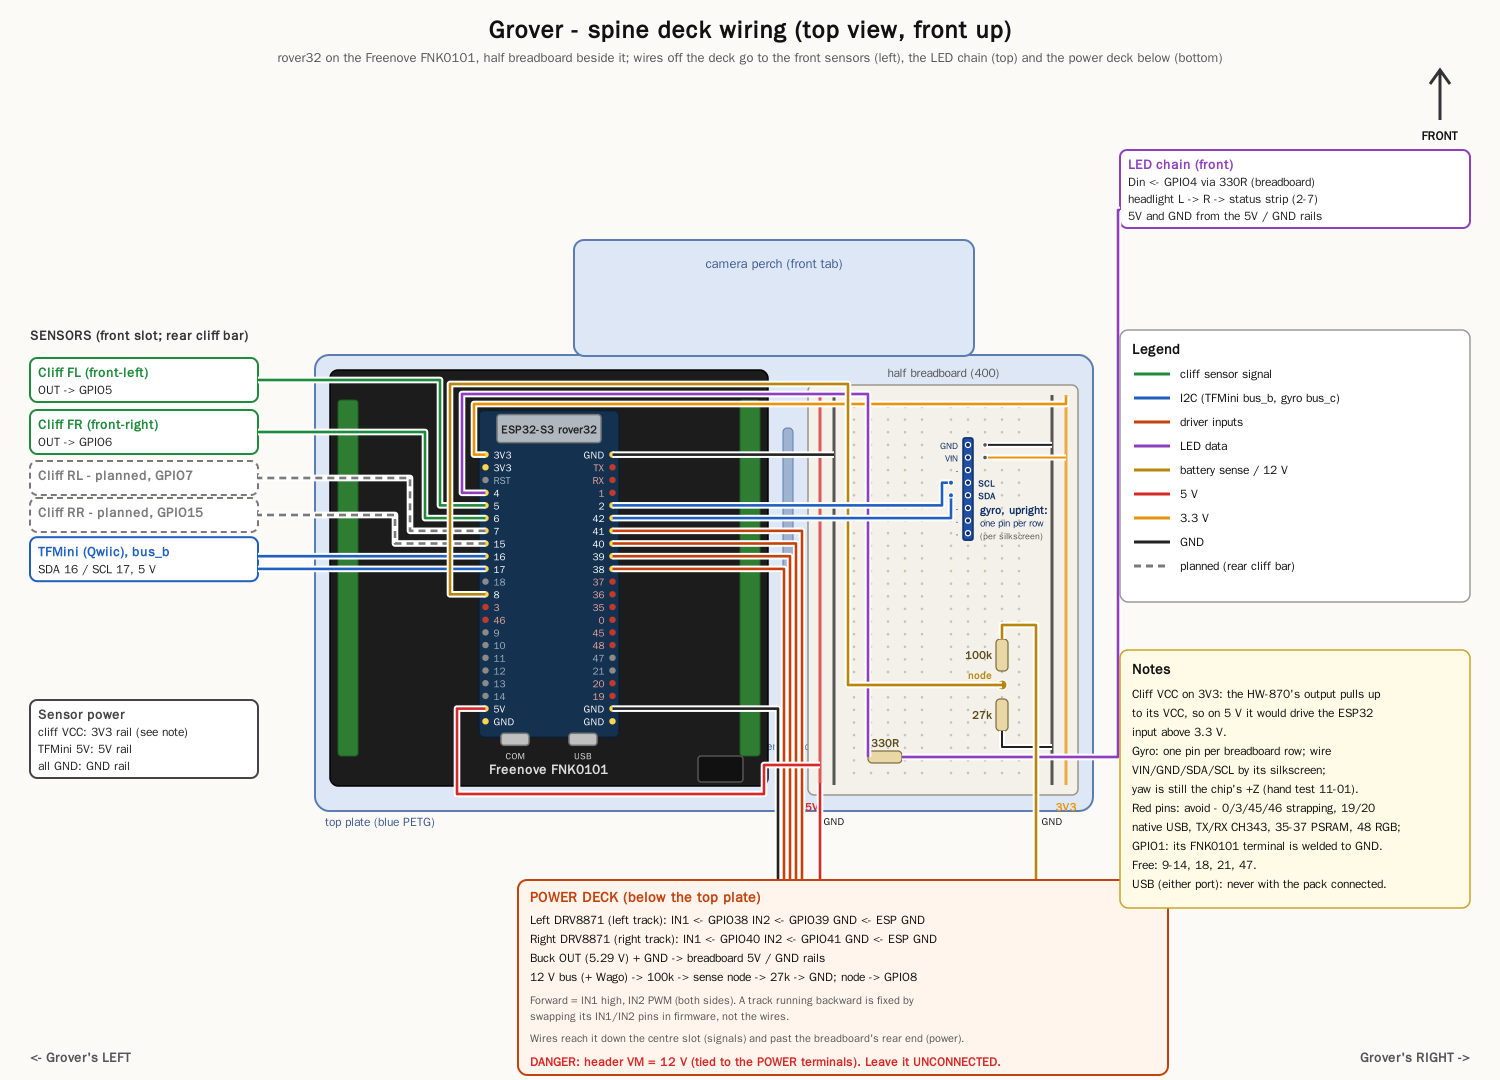
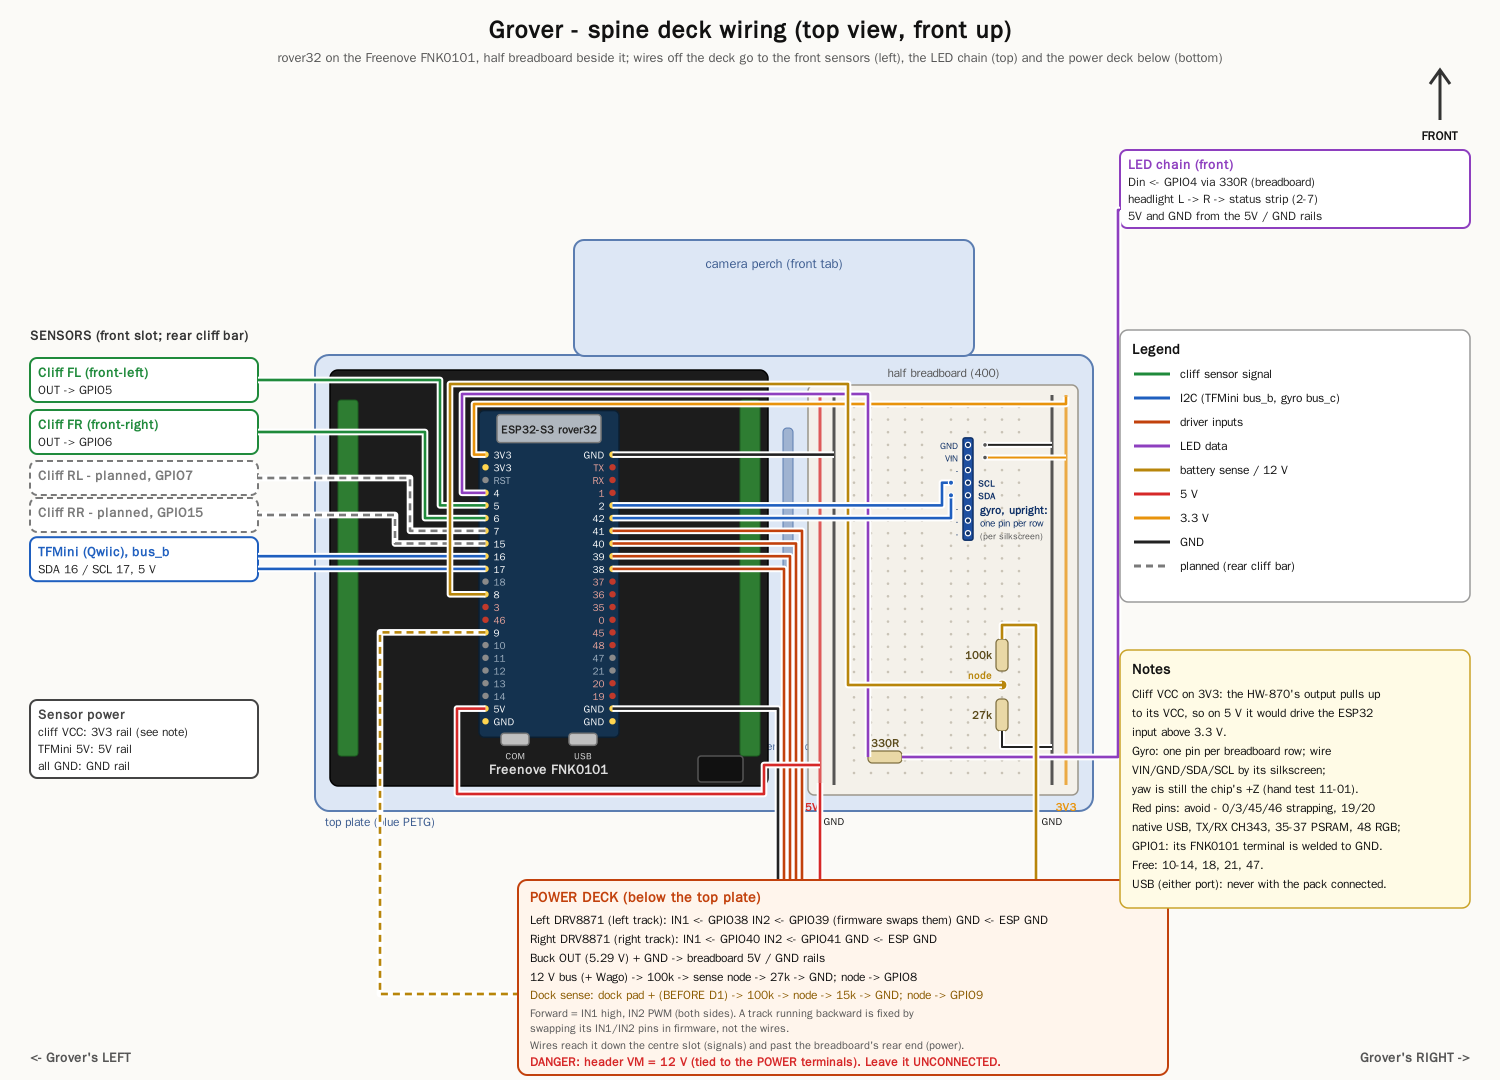
dock sense (100k/15k -> GPIO9): docs, diagram, BOM, firmware copy, JOURNAL

diff --git a/hardware/carrier/spine_deck_wiring.py b/hardware/carrier/spine_deck_wiring.py
@@ -92,7 +92,7 @@ right_pins = ["GND", "TX", "RX", "1", "2", "42", "41", "40", "39", "38", "37", "
 avoid = {"1", "3", "46", "0", "45", "48", "TX", "RX", "20", "19", "35", "36", "37"}
 lx, rx_ = dcx - 12.7 * S, dcx + 12.7 * S
 P = {}
-used = {"3V3", "4", "5", "6", "7", "15", "16", "17", "8", "5V", "2", "42", "41", "40", "39", "38"}
+used = {"3V3", "4", "5", "6", "7", "15", "16", "17", "8", "9", "5V", "2", "42", "41", "40", "39", "38"}
 def pin(x, y, n, side, i):
     on = n in used or n == "GND"
     fill = "#ffd54f" if on else "#c0392b" if n in avoid else "#8a8a8a"
@@ -217,16 +217,19 @@ line([(bx0 + 228, PDy), (bx0 + 228, dvy - 60), (rx1, dvy - 60), (rx1, dvy - 46)]
 
 # ---- power deck box (below) ------------------------------------------------
 pdx, pdw = gx0 - 250, 650
+# dock sense GPIO9 (left header) -> down the left side -> power deck divider
+line([P["L9"], (380, P["L9"][1]), (380, PDy + 114), (gx0 - 250, PDy + 114)], C["bat"], dash=True)
 rect(pdx, PDy, pdw, 195, "#fff5ec", C["drv"], rx=9, sw=2)
 text(pdx + 12, PDy + 22, "POWER DECK (below the top plate)", 14, weight="bold", col=C["drv"])
-text(pdx + 12, PDy + 44, "Left DRV8871 (left track):  IN1 <- GPIO38   IN2 <- GPIO39   GND <- ESP GND", 12)
+text(pdx + 12, PDy + 44, "Left DRV8871 (left track):  IN1 <- GPIO38   IN2 <- GPIO39 (firmware swaps them)   GND <- ESP GND", 12)
 text(pdx + 12, PDy + 63, "Right DRV8871 (right track): IN1 <- GPIO40   IN2 <- GPIO41   GND <- ESP GND", 12)
 text(pdx + 12, PDy + 186, "DANGER: header VM = 12 V (tied to the POWER terminals). Leave it UNCONNECTED.", 12, weight="bold", col="#d62828")
 text(pdx + 12, PDy + 82, "Buck OUT (5.29 V) + GND -> breadboard 5V / GND rails", 12)
 text(pdx + 12, PDy + 101, "12 V bus (+ Wago) -> 100k -> sense node -> 27k -> GND;  node -> GPIO8", 12)
-text(pdx + 12, PDy + 124, "Forward = IN1 high, IN2 PWM (both sides). A track running backward is fixed by", 11, col="#555")
-text(pdx + 12, PDy + 140, "swapping its IN1/IN2 pins in firmware, not the wires.", 11, col="#555")
-text(pdx + 12, PDy + 162, "Wires reach it down the centre slot (signals) and past the breadboard's rear end (power).", 11, col="#555")
+text(pdx + 12, PDy + 119, "Dock sense: dock pad + (BEFORE D1) -> 100k -> node -> 15k -> GND;  node -> GPIO9", 12, col="#8a5a00")
+text(pdx + 12, PDy + 137, "Forward = IN1 high, IN2 PWM (both sides). A track running backward is fixed by", 11, col="#555")
+text(pdx + 12, PDy + 152, "swapping its IN1/IN2 pins in firmware, not the wires.", 11, col="#555")
+text(pdx + 12, PDy + 169, "Wires reach it down the centre slot (signals) and past the breadboard's rear end (power).", 11, col="#555")
 
 # ---- legend / notes ----------------------------------------------------------
 lgx, lgy = 1120, 330
@@ -253,7 +256,7 @@ for i, s in enumerate([
         "Red pins: avoid - 0/3/45/46 strapping, 19/20",
         "native USB, TX/RX CH343, 35-37 PSRAM, 48 RGB;",
         "GPIO1: its FNK0101 terminal is welded to GND.",
-        "Free: 9-14, 18, 21, 47.",
+        "Free: 10-14, 18, 21, 47.",
         "USB (either port): never with the pack connected."]):
     text(nx + 12, ny + 48 + i * 19, s, 12)
 

diff --git a/hardware/carrier/README.md b/hardware/carrier/README.md
@@ -36,7 +36,8 @@ the old positions. S3 header J1 from the antenna end: 3V3, 3V3, RST, 4, 5, 6,
 | Battery divider | **8** | 34 | 100k / 27k + 100 nF | ADC1_CH7; recalibrate (S3 ADC). GPIO1 was the first choice, but its FNK0101 terminal is welded to GND (10-31 short) - never use it |
 | Left motor DRV8871 | **IN1 38 / IN2 39** | 22 / 23 | header IN1, IN2, GND only | **header VM stays unconnected (12 V)** |
 | Right motor DRV8871 | **IN1 40 / IN2 41** | 19 / 18 | as above | |
-| Free | 9-14, 18, 21, 47 | | | |
+| Dock sense | **9** | - | 100k / 15k on the power deck, next to D1 | ADC1_CH8. Taps the dock pad + lead BEFORE D1 (pad side): ~12.6 V on the dock -> 1.64 V, 0 V off it (the 15k pulls down). Analog, not digital - 1.6 V is below the S3's logic-high threshold. 100k / 10k also works (1.15 V) - say which, the firmware factor differs. Optional 100 nF across the 15k. Drives the status strip's Charging effect and gives the brain an instant contact signal (11-01) |
+| Free | 10-14, 18, 21, 47 | | | |
 | Avoid | 0/3/45/46 strapping, 19/20 native USB, 43/44 CH343 UART, 26-32 flash, 35-37 octal PSRAM, 48 RGB LED | | | |
 
 The DRV8871 swap needs a firmware change: the L298N drove direction on two pins
@@ -55,6 +56,7 @@ and speed on a PWM EN pin; the DRV8871 takes PWM on IN1 (forward) or IN2
    pack + / P-                            ├── LM2596 IN+ (socket) ── OUT+ ──[D2 1N5822, optional]── 5V rail
                                           ├── vbat divider (GPIO34)
  J_DOCK (screw, 2) ──[D1 1N5822]──────────┘   (left pad +, band toward the rail; right pad -> GND/P-)
+                  └── 100k ──┬── 15k ── GND      dock sense (pad side of D1): node -> GPIO9
 ```
 
 - **F1:** 5 A inline-blade fuse holder footprint (Enoch has one), the pack's only

diff --git a/BOM.md b/BOM.md
@@ -33,6 +33,7 @@ All from Enoch's inventory unless the Source column says otherwise.
 | 18650 Li-ion cells | 3 (3S) | Power, 12.6 V full / ~9 V empty | Inventory | Installed; one weak set retired 09-29, one bad cell found 10-04 - charge the set together and full |
 | LM2596 buck, set to 5.2 V | 1 | 5 V for the ESP32 (VIN), the camera (spliced micro-USB) and the TFMini | Inventory | Installed. To do (10-24): 1N5822 Schottky in its output lead so USB can't back-feed it, buck raised to ~5.5 V - Enoch ordered a 30-pack ($5.99, his purchase, not budget), **received 10-26**. Buck-lead diode **deferred** until rover32 needs USB (until then: no USB with the pack connected); a second 1N5822 goes in the dock + lead (ROADMAP 2.3) |
 | Bare 12 AWG solid copper (Romex ground), ~80 mm x 2 | 2 | Dock contact staples in the printed pad bars (replaces the copper tape and pogo pins: the Eufy base's sprung rollers are the spring side) | Inventory | Cut and fit pending (2026-10-25) |
+| Dock-sense divider: 100k + 15k (+ optional 100 nF) | 1 set | Dock pad + (before D1) -> GPIO9: 'On dock' and the charging lights (11-01) | Inventory | Enoch building |
 | Panel-mount DC barrel jack 5.5/2.1 mm | 1 | Brick into the dock | Inventory if Enoch has one, else ~$1 | - |
 | TalentCell 12.6 V 2 A Li-ion charger (5.5/2.1 mm barrel, charge LED) | 1 | Dock supply (Phase 2) - CC/CV for a 3S pack; the RD6018 in battery mode stood in for the first charge test | **$16.45 (budget)**, ordered 2026-10-24 (Amazon; Waveshare's $7 unit was ~$18 landed) | **Received 2026-10-26** |
 | Resistors 100k + 27k | 1 each | Battery divider into GPIO34 (x4.664, calibrated 10-03 against a meter) | Inventory | Installed |

diff --git a/JOURNAL.md b/JOURNAL.md
@@ -380,8 +380,13 @@ DRV8871 drivers arrived; he asked for Grover's parts in blue PETG from now on.*
 - **Charging lights:** they don't come on by themselves - the status
   strip's "Charging" effect exists but nothing triggers it, and the
   pack voltage alone can't tell "on the dock" from "freshly charged".
-  Proposed: a dock-sense divider from the pad + lead (before the dock
-  diode) into GPIO9.
+  Fix (Enoch building it): a dock-sense divider, 100k/15k, on the power
+  deck next to D1, tapping the pad + lead *before* the diode - 1.64 V at
+  12.6 V, 0 V off the dock - into GPIO9 as an analog input (1.6 V is
+  under the S3's logic-high threshold). Firmware: "Dock voltage" and an
+  "On dock" sensor (9 V on / 6 V off) that runs the Charging effect;
+  compiled, held until the divider is wired (a floating GPIO9 could fake
+  "on dock"). The brain gets an instant contact signal for docking too.
 - **Battery sense moved to GPIO8:** GPIO1's FNK0101 terminal was welded to
   GND by the 10-31 short (Enoch). On GPIO8 it reads 14.6 V with the
   WROOM-32 factor. Not an over-read: Enoch metered the node at 3.897 V
